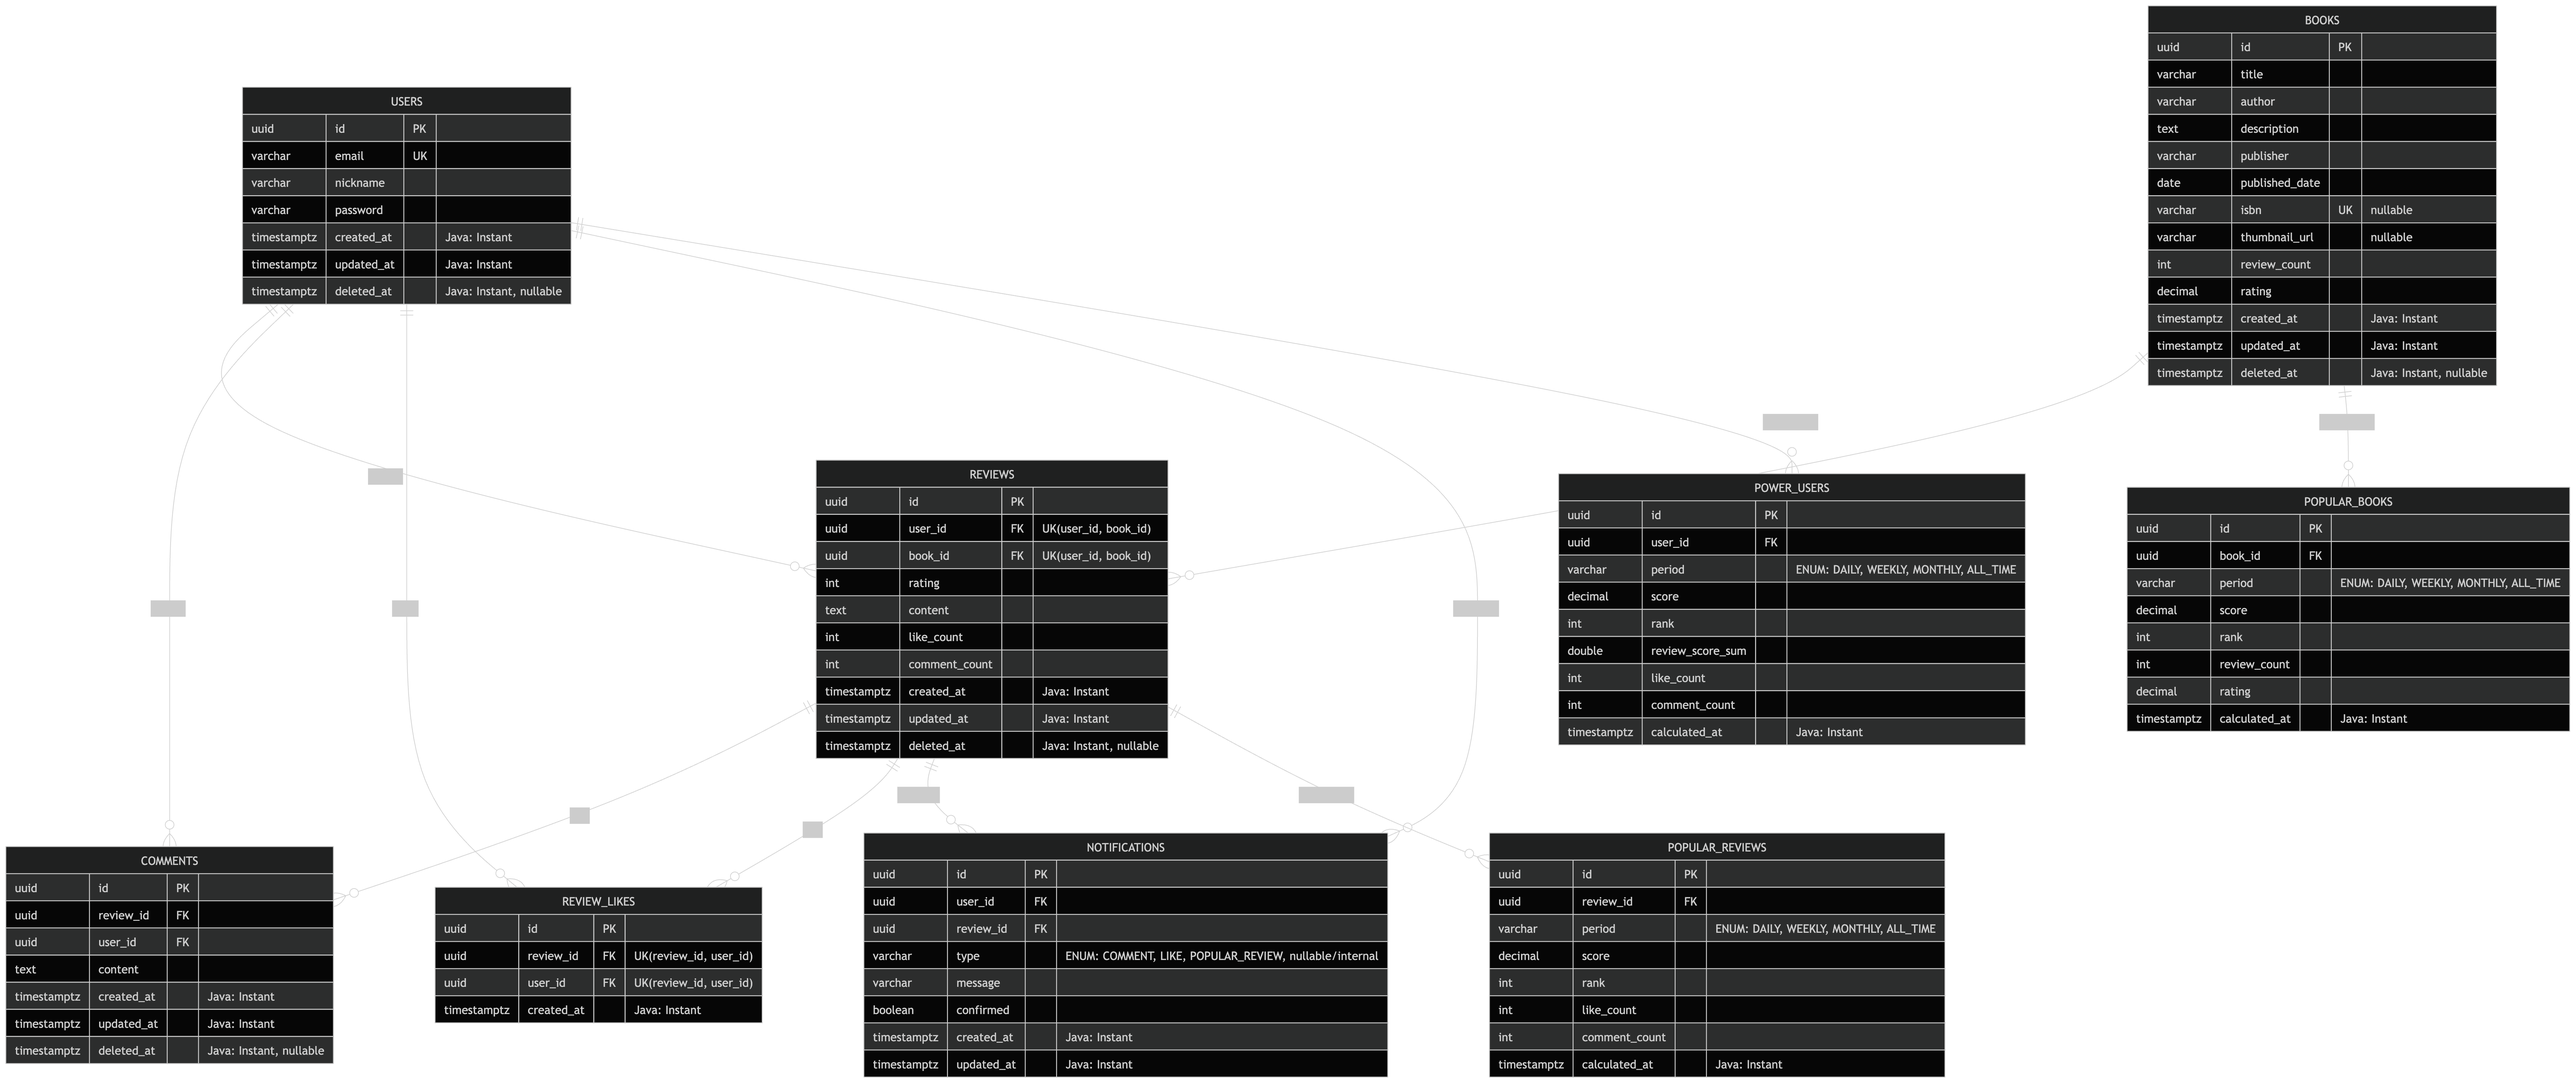
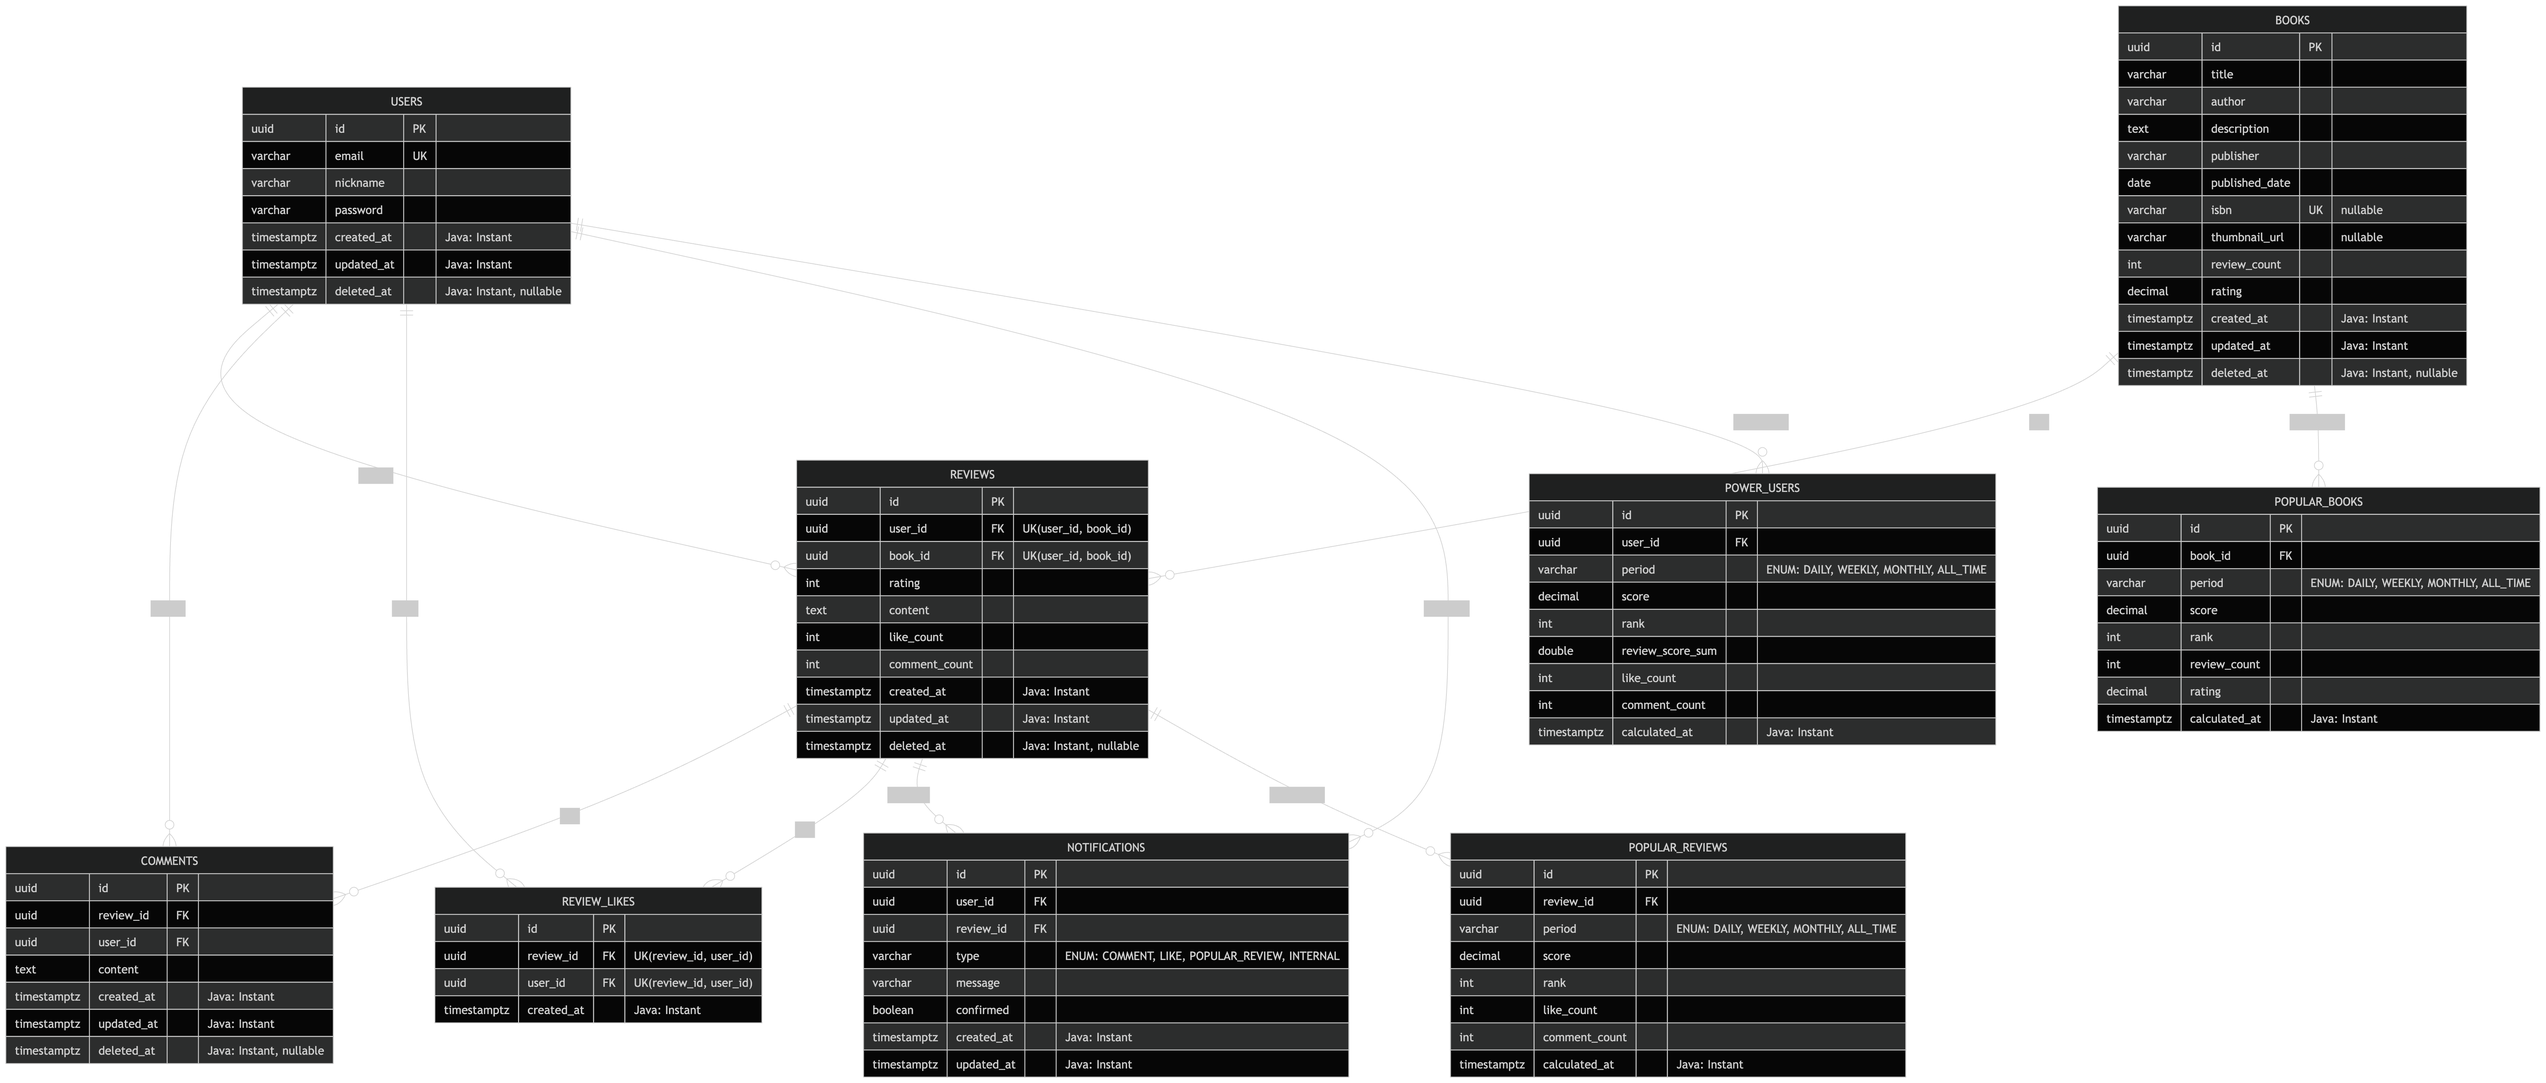
Feat: schema.sql 작성

diff --git a/README.md b/README.md
@@ -163,11 +163,16 @@ cp .env.example .env
 ```bash
 docker-compose up -d
 ```
-
-### 4. 애플리케이션 실행
+### 4. 스키마 적용
 
 ```bash
-./gradlew bootRun
+docker exec -i deokhugam-db psql -U deokhugam -d deokhugam < src/main/resources/schema.sql
+```
+
+### 5. 애플리케이션 실행
+
+```bash
+./gradlew bootRun --args='--spring.profiles.active=local'
 ```
 
 ### 5. 테스트 실행
